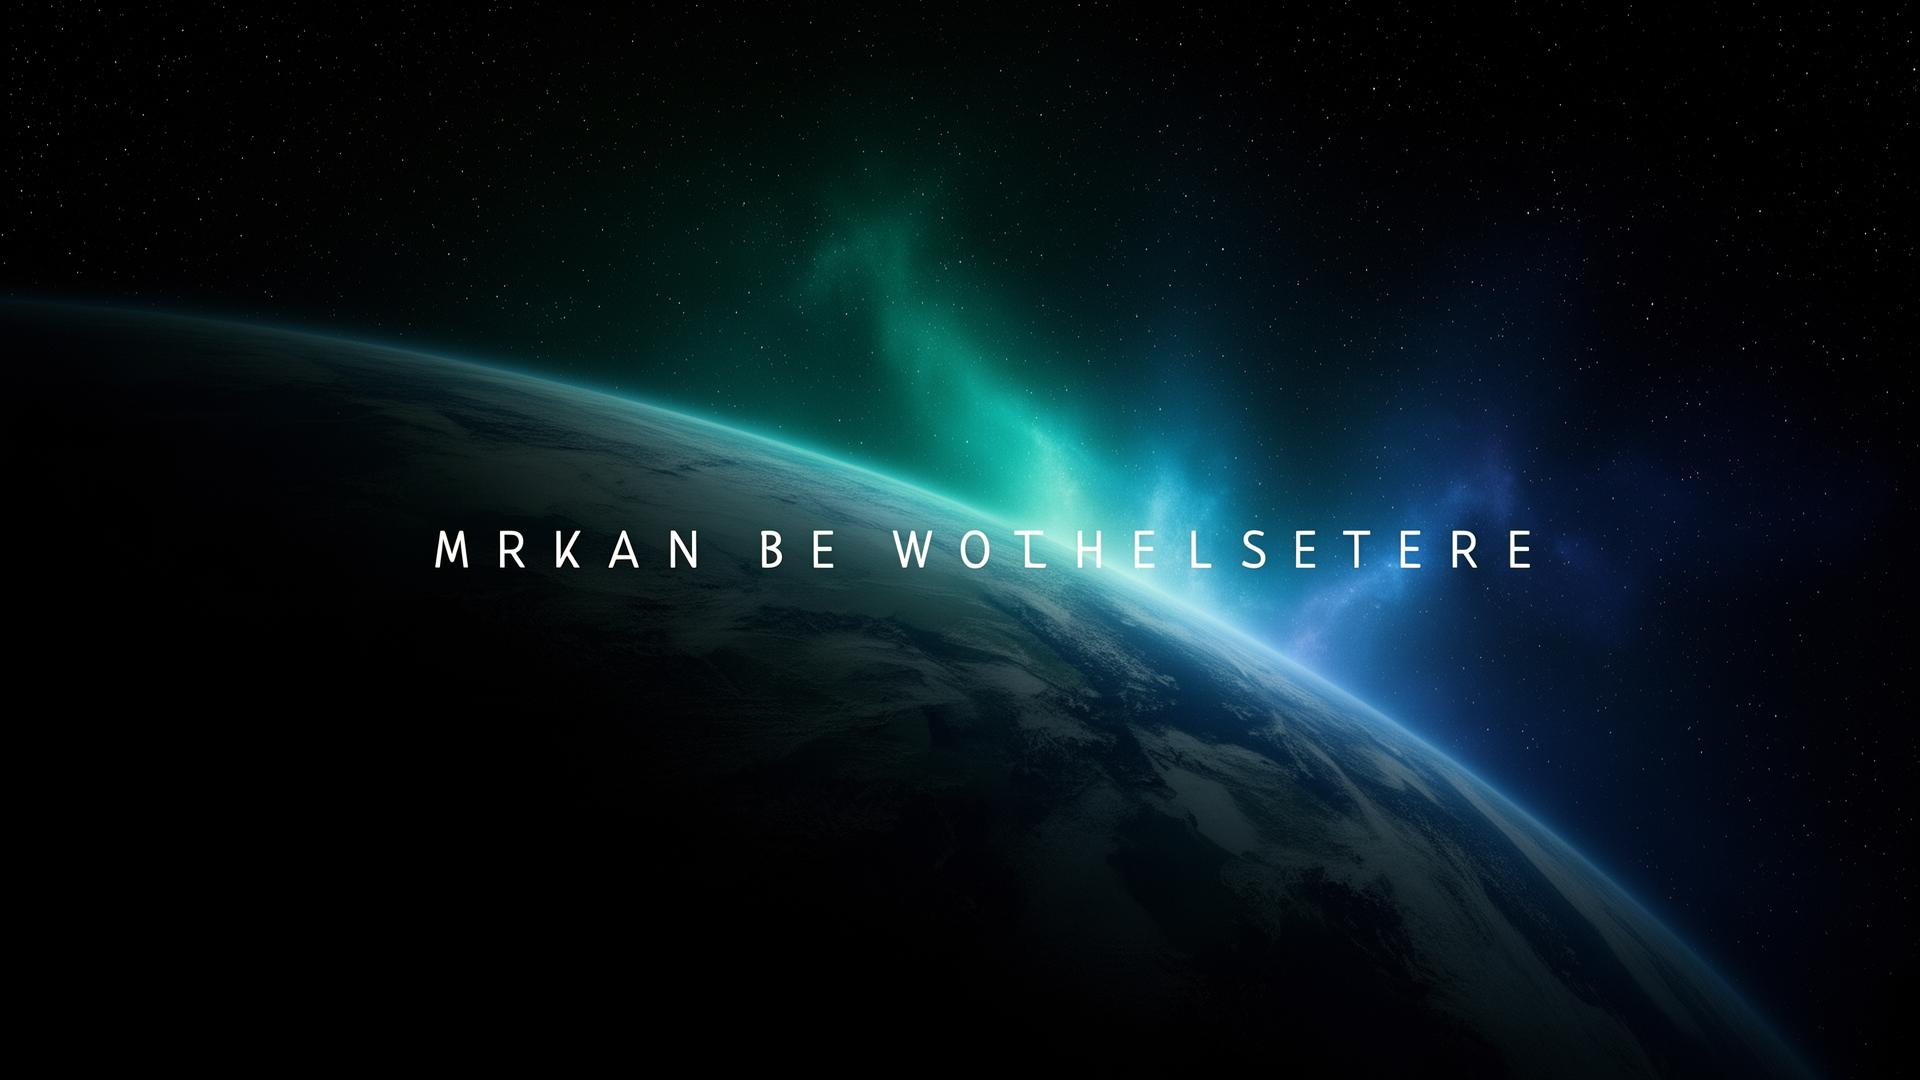
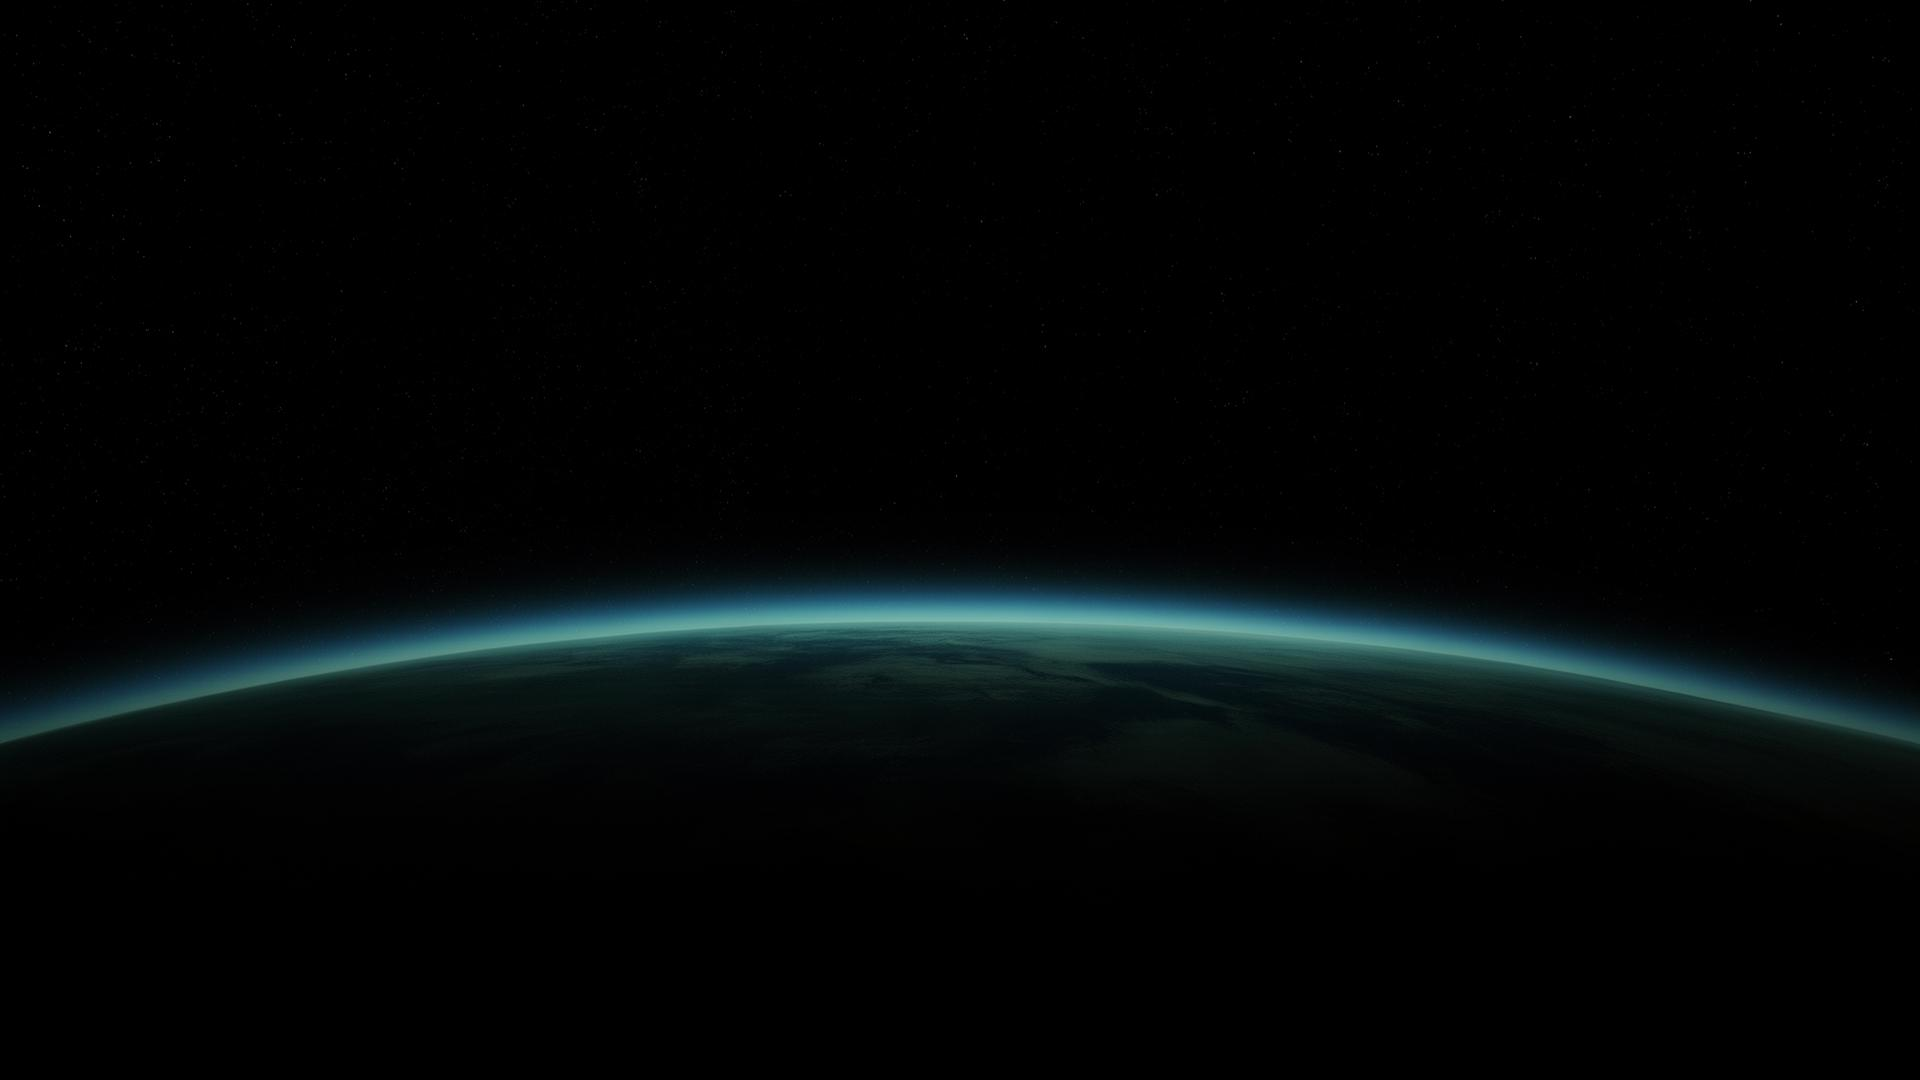
Changes

diff --git a/src/pages/InvestorPortal.tsx b/src/pages/InvestorPortal.tsx
@@ -74,23 +74,36 @@ const InvestorPortal = () => {
       </Helmet>
 
       <div className="relative min-h-screen overflow-hidden">
-        {/* Cinematic Space Background */}
+        {/* Layer 1: Cinematic Earth/Space Image */}
         <div 
           className="fixed inset-0 z-0"
           style={{
             backgroundImage: 'url(/investor-bg-earth.jpg)',
             backgroundSize: 'cover',
-            backgroundPosition: 'center',
+            backgroundPosition: 'center bottom',
             backgroundAttachment: 'fixed',
+            opacity: 0.45,
           }}
         />
-        {/* Dark Overlay for readability */}
-        <div className="fixed inset-0 z-0 bg-black/70 backdrop-blur-[2px]" />
+        
+        {/* Layer 2: Gradient Tint with Teal Glow */}
+        <div 
+          className="fixed inset-0 z-0"
+          style={{
+            background: `
+              radial-gradient(circle at 60% 20%, rgba(34,211,238,0.15), transparent 55%),
+              linear-gradient(to bottom, rgba(0,0,0,0.95), rgba(0,0,0,0.8) 50%, rgba(0,0,0,0.95))
+            `,
+          }}
+        />
+        
+        {/* Layer 3: Readability Overlay */}
+        <div className="fixed inset-0 z-0 bg-black/50" />
         
         {/* Content Layer */}
         <div className="relative z-10">
           {/* Hero Header */}
-          <div className="border-b border-cyan-500/20 bg-[#050505]/80 backdrop-blur-md">
+          <div className="border-b border-cyan-500/20 bg-black/40 backdrop-blur-md">
           <div className="container mx-auto px-4 py-10 md:py-16 text-center">
             {/* Primary H1 */}
             <h1 className="text-4xl md:text-6xl font-bold tracking-wider text-white font-display mb-4">
